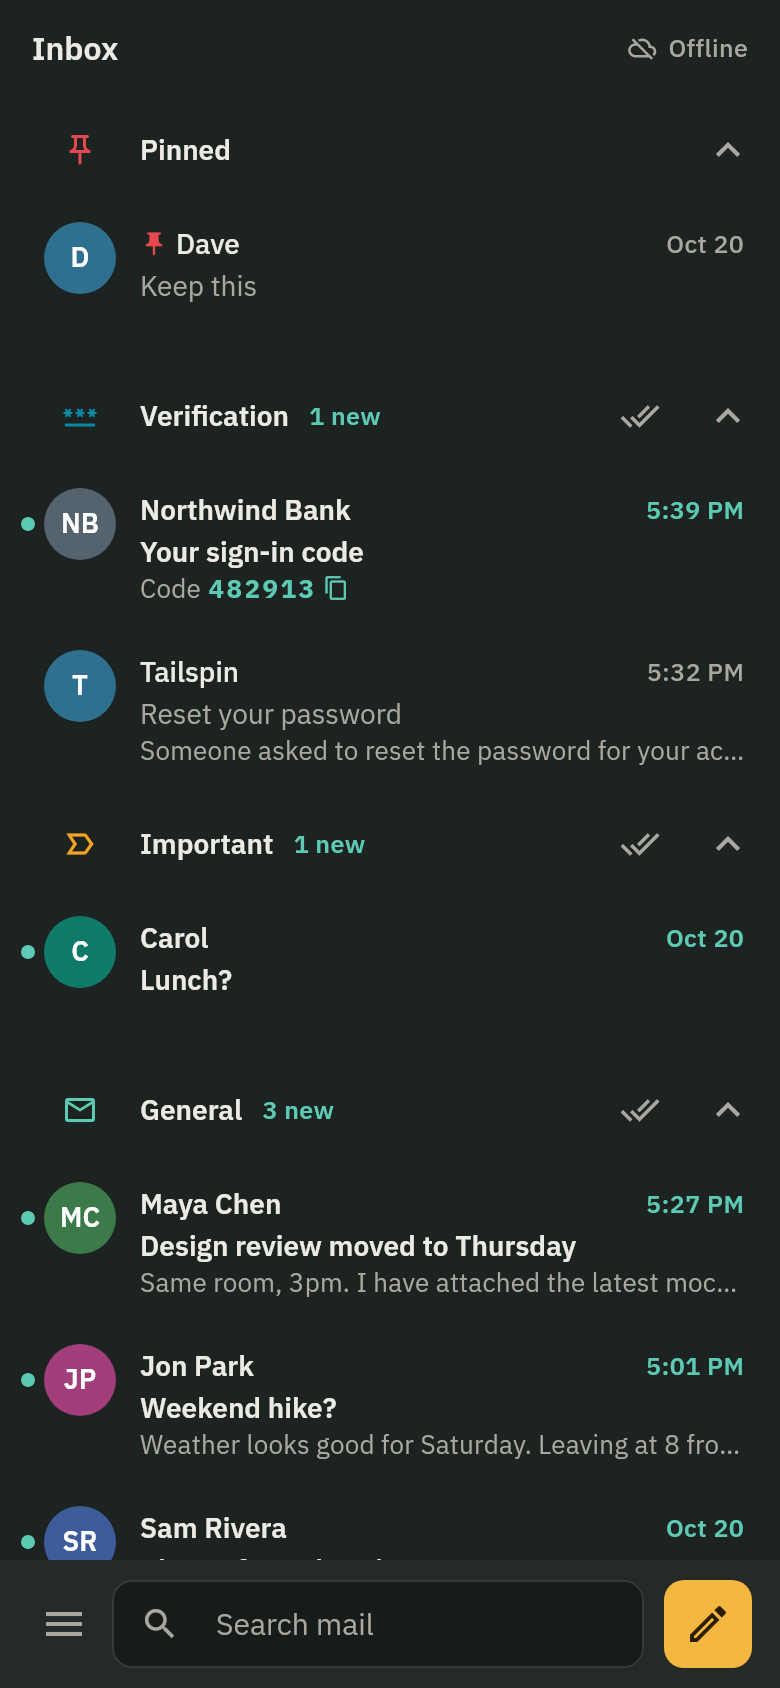
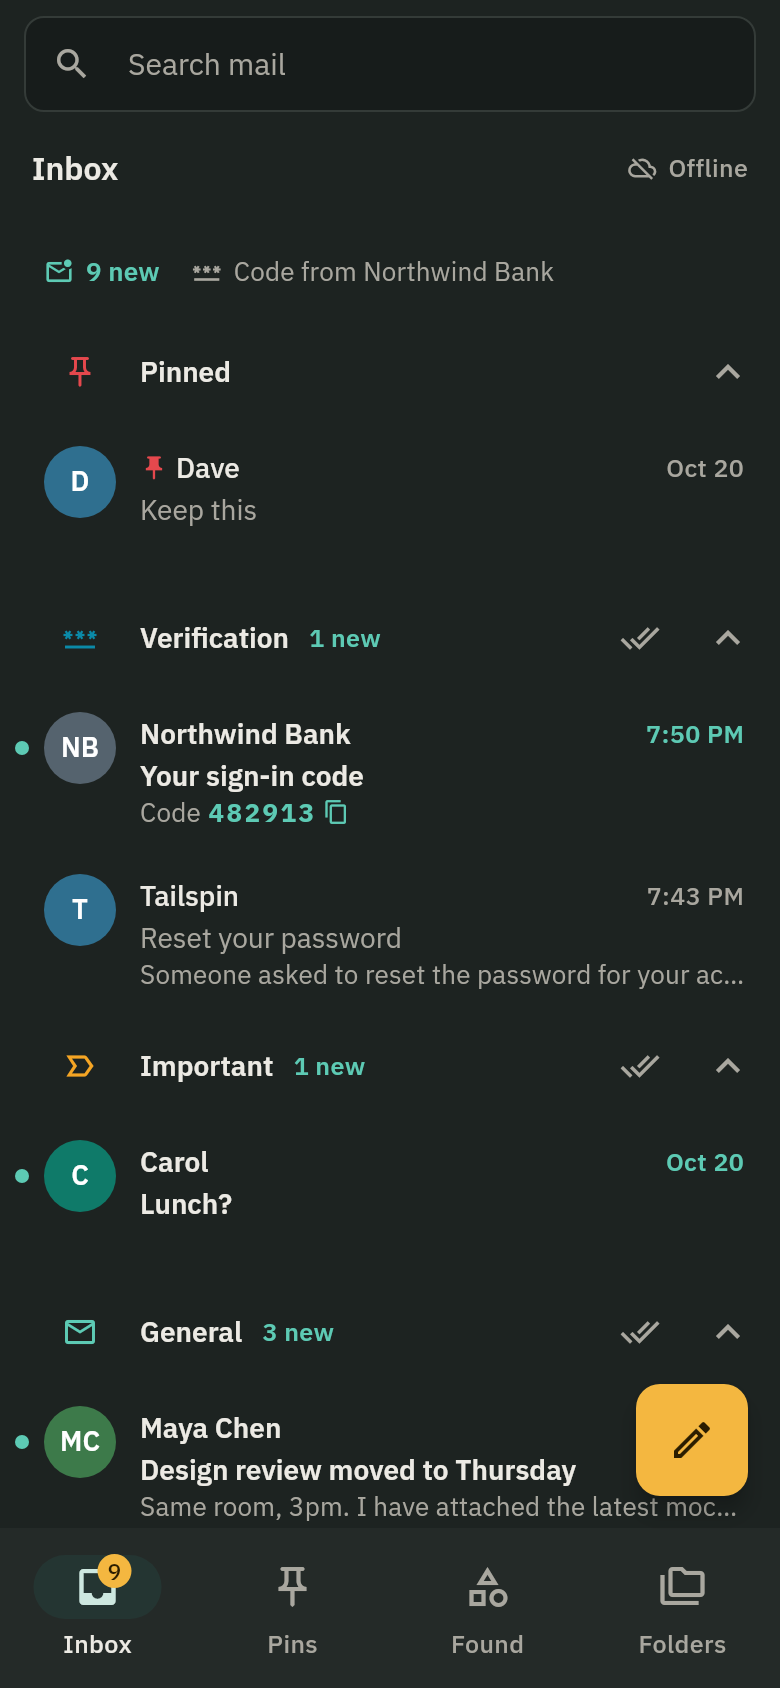
Release 0.6.2: phone tabs, a summary line, peek, typo-tolerant search and more
What's new lists the summary line, peek, writing hints, the command bar
and the Latest code tile, each only on the devices that have it. README
screenshots re-rendered for the new phone layout.

diff --git a/app/lib/src/ui/whats_new.dart b/app/lib/src/ui/whats_new.dart
@@ -13,11 +13,15 @@ import 'citusmail_theme.dart';
 import 'features.dart';
 
 /// The app's version, as in app/pubspec.yaml (a test checks they agree).
-const appVersion = '0.6.1';
+const appVersion = '0.6.2';
 
 /// What a version brought that people can see, newest first: feature ids
 /// from [Features]. Only features that shipped.
 const releaseNotes = <({String version, List<String> features})>[
+  (
+    version: '0.6.2',
+    features: ['summaryLine', 'peek', 'writingHints', 'commandBar', 'codeTile'],
+  ),
   (
     version: '0.6.0',
     features: [
@@ -69,14 +73,14 @@ final class WhatsNew {
     return [
       for (final r in releaseNotes)
         if (seen == null || _newer(r.version, seen))
-          for (final id in r.features) ?Features.byId(id),
+          for (final id in r.features) ?Features.availableById(id),
     ];
   }
 
   /// This version's features (Settings, "What's new").
   static List<Feature> get current => [
     for (final r in releaseNotes.take(1))
-      for (final id in r.features) ?Features.byId(id),
+      for (final id in r.features) ?Features.availableById(id),
   ];
 
   void markSeen() {

diff --git a/app/screenshots/screens_test.dart b/app/screenshots/screens_test.dart
@@ -236,6 +236,17 @@ void main() {
         await tester.pump(InboxSummary.delay);
         await shoot(tester, '${name}_summary_line$suffix');
         if (name == 'phone') {
+          // Below the summary line on a phone: scroll to it first.
+          await tester.scrollUntilVisible(
+            find.text('Hello there'),
+            200,
+            scrollable: find
+                .descendant(
+                  of: find.byType(CustomScrollView),
+                  matching: find.byType(Scrollable),
+                )
+                .first,
+          );
           await tester.longPress(find.text('Hello there'));
         } else {
           Focus.of(tester.element(find.text('Hello there'))).requestFocus();

diff --git a/app/lib/src/ui/features.dart b/app/lib/src/ui/features.dart
@@ -76,6 +76,10 @@ final class Feature {
 abstract final class Features {
   static Feature? byId(String id) => all.where((f) => f.id == id).firstOrNull;
 
+  /// The feature [id], if this kind of device has it.
+  static Feature? availableById(String id, {bool? android}) =>
+      available(android: android).where((f) => f.id == id).firstOrNull;
+
   /// The features on this kind of device.
   static List<Feature> available({bool? android}) {
     final onAndroid = android ?? Platform.isAndroid;
